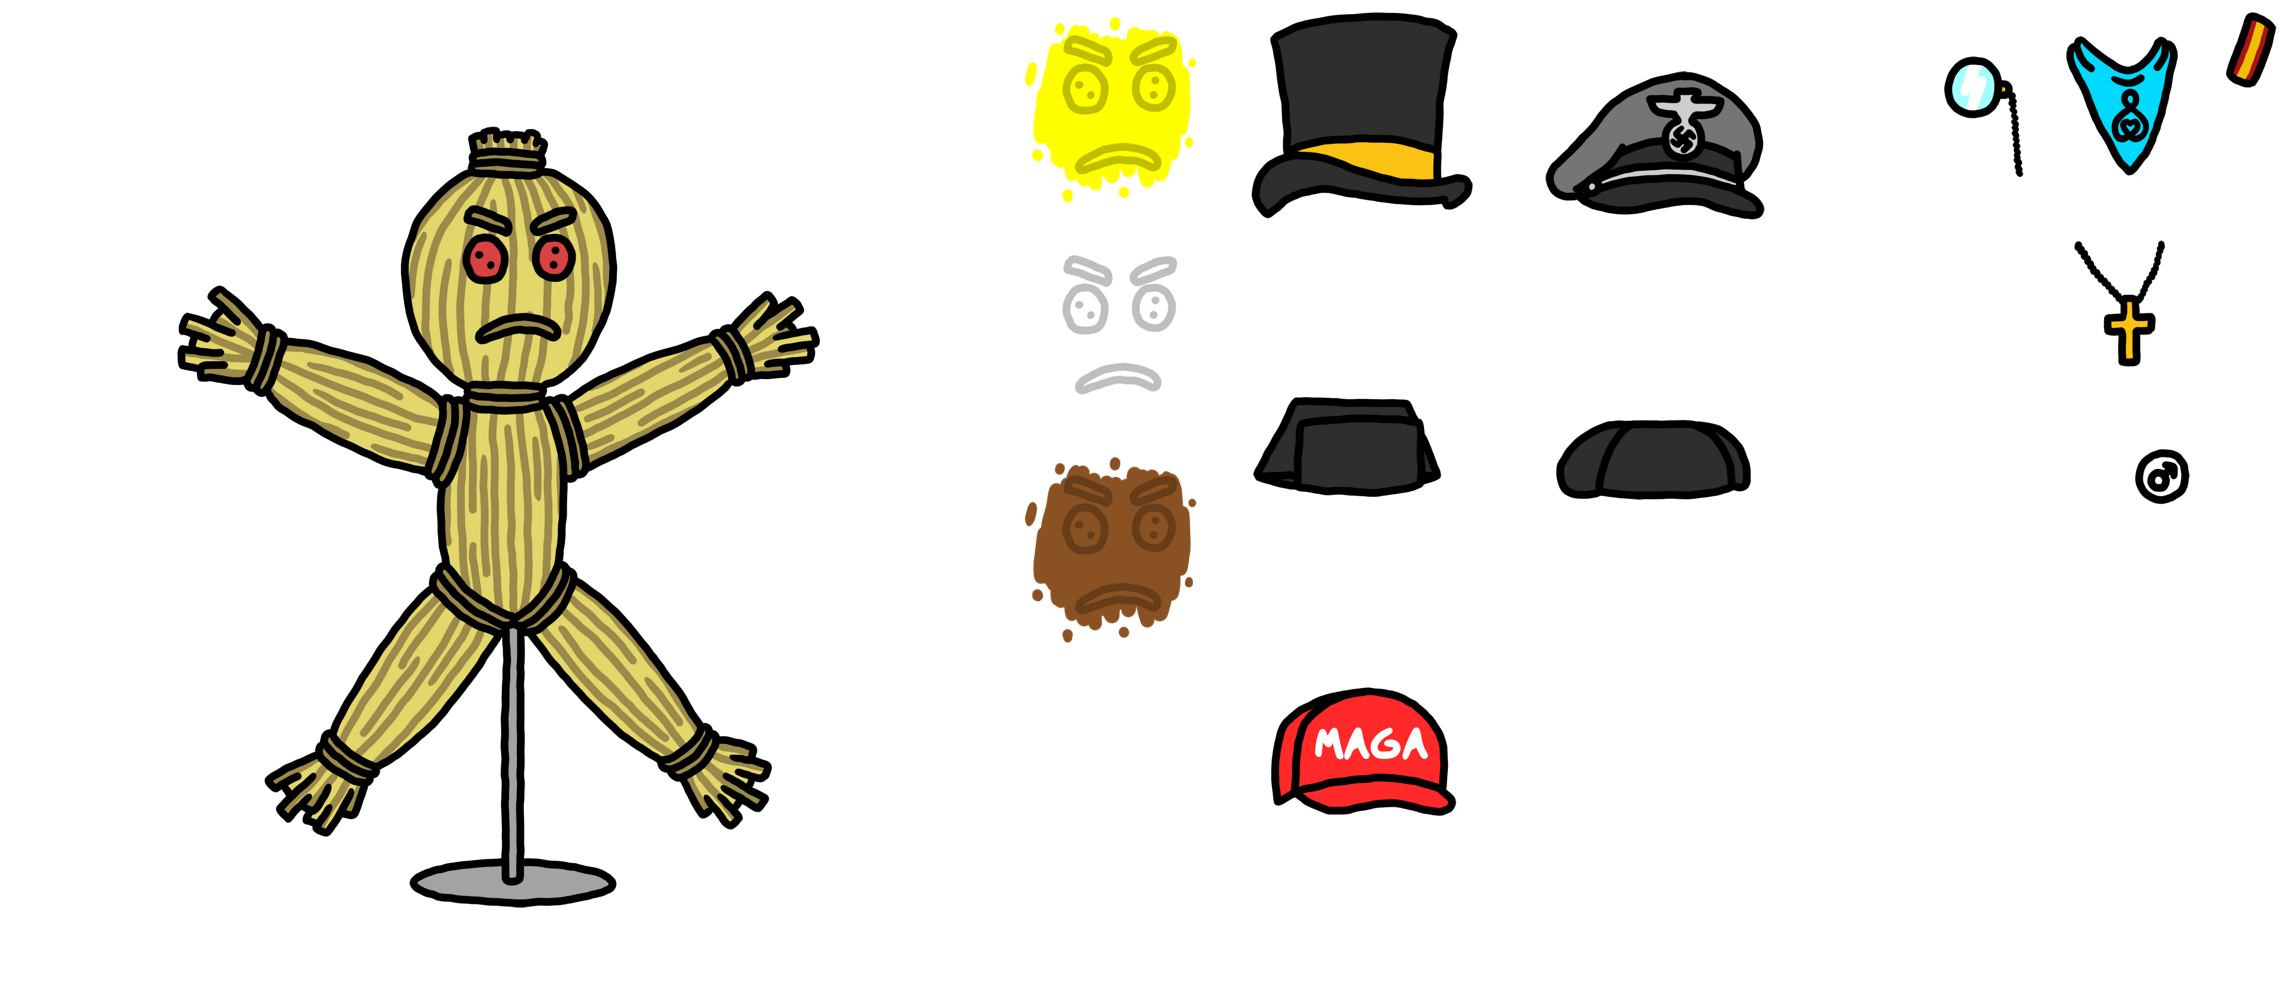
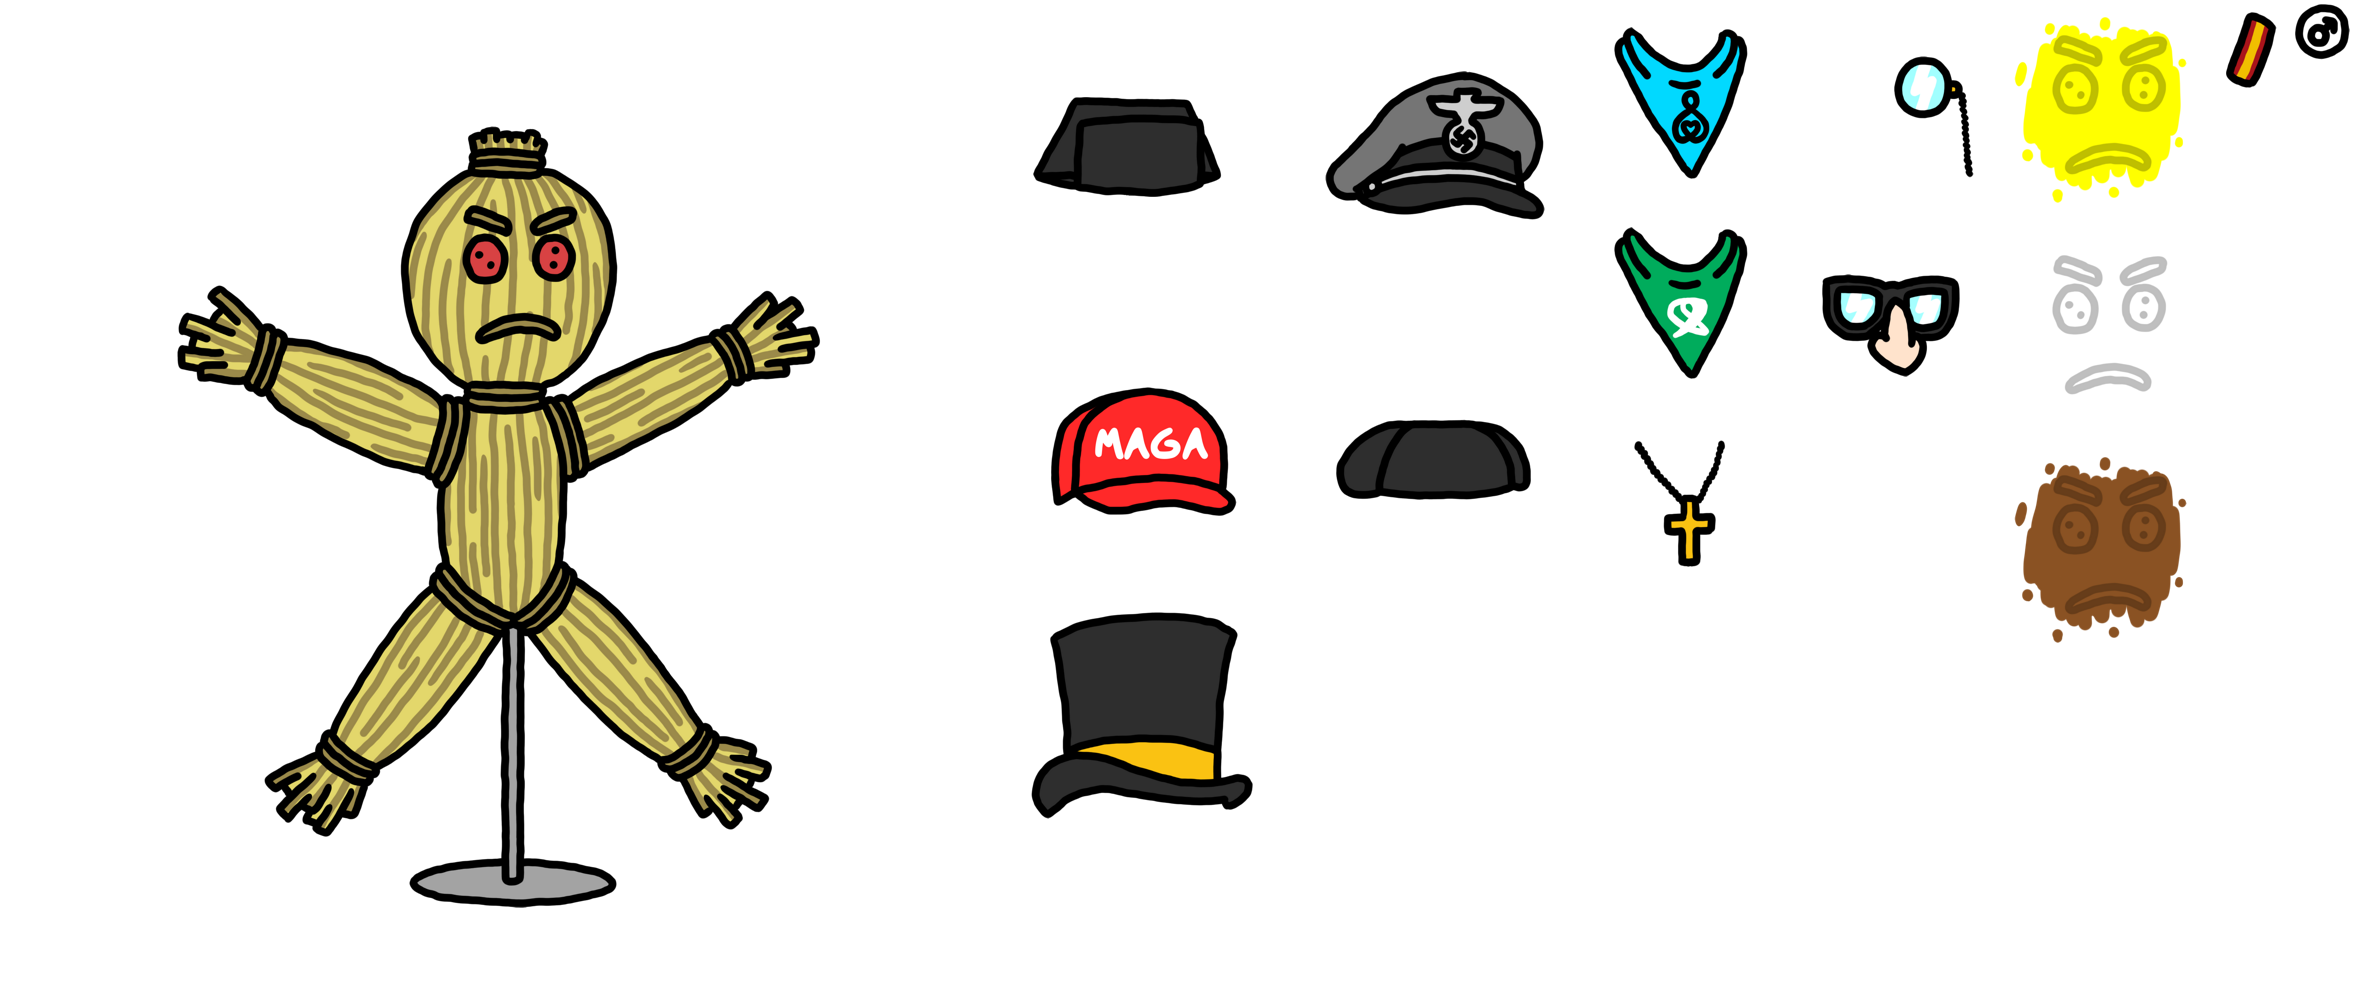
Render order added

diff --git a/src/CanvasComponent.js b/src/CanvasComponent.js
@@ -45,16 +45,24 @@ class CanvasComponent extends Component{
     }
 
     drawWardrobe(wardrobe, context){
+        for(let garment of this.getClothes(wardrobe).sort((a, b) => a.order - b.order)){
+            this.drawImage(garment.origin, garment.destination, context);
+        }
+    }
+
+    getClothes(wardrobe){
+        let clothes = [];
         for(let garmentName in wardrobe) {
             if(wardrobe[garmentName] instanceof Garment ){
                 if(wardrobe[garmentName].selected){
-                    this.drawImage(wardrobe[garmentName].origin, wardrobe[garmentName].destination, context);
+                    clothes.push(wardrobe[garmentName]);
                 }
             }
             else {
-                this.drawWardrobe(wardrobe[garmentName], context);
+                clothes.push(...this.getClothes(wardrobe[garmentName]));
             }
         }
+        return clothes;
     }
 
     drawImage(origin, destination, context){

diff --git a/src/App.js b/src/App.js
@@ -19,7 +19,7 @@ class App extends Component{
     getWardrobe(clothesOrigin, clothesDestination){
         let wardrobe = {};
         for(let garmentName in clothesOrigin){
-            if(garmentName !== "muneco"){
+            if(garmentName !== "strawman"){
                 if("x" in clothesOrigin[garmentName]){
                     wardrobe[garmentName] = new Garment(garmentName, wardrobe, clothesOrigin[garmentName], clothesDestination);
                 }
@@ -49,7 +49,7 @@ class App extends Component{
             <div className="app">
                 <CanvasComponent
                     wardrobe={this.state.wardrobe}
-                    strawman={new ImageCropping(merge.muneco)}
+                    strawman={new ImageCropping(merge.strawman)}
                 ></CanvasComponent>
                 <Wardrobe
                     wardrobe={this.state.wardrobe}

diff --git a/src/Garment.js b/src/Garment.js
@@ -8,6 +8,7 @@ export default class Garment {
         this.wardrobeSection = wardrobeSection;
         this.origin = new ImageCropping(origin);
         this.destination = new ImageCropping(destination);
+        this.order = destination.z;
     }
 
 }
